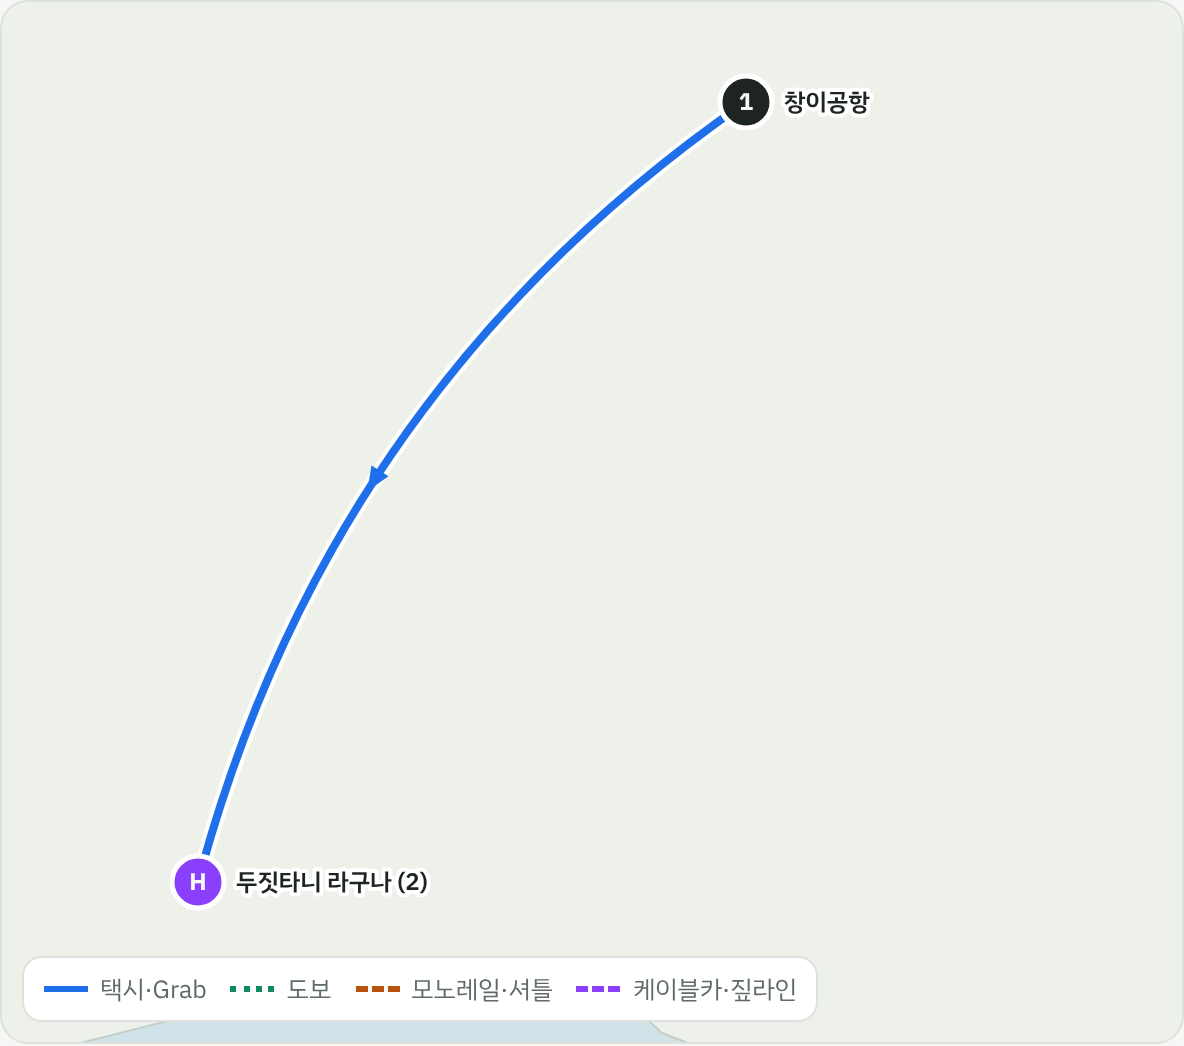
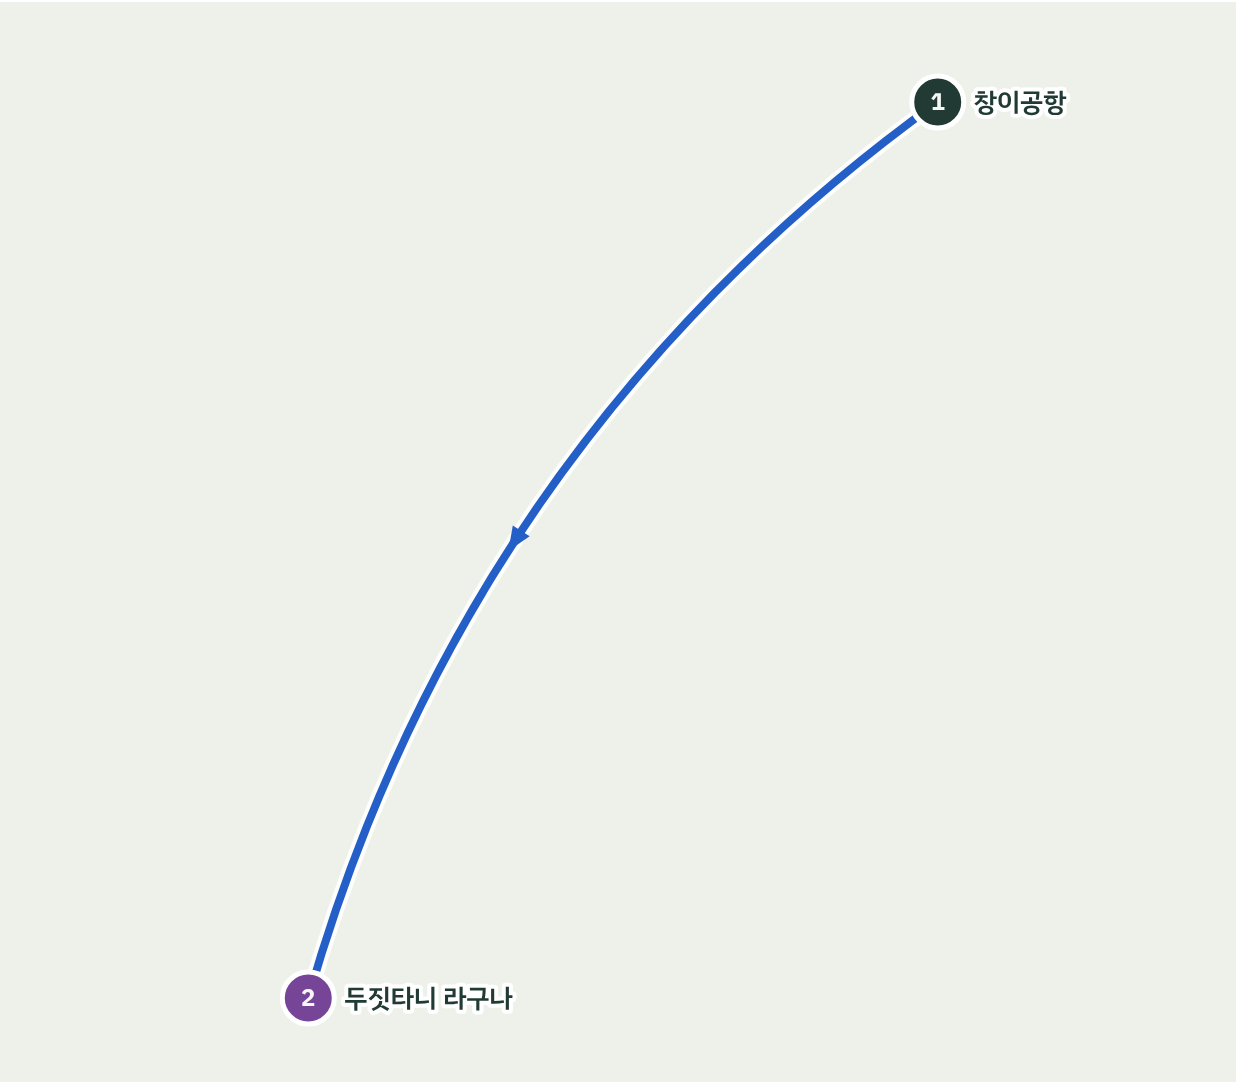
보내 주신 새 지도로 교체 (워터마크 배경 타일은 제거)
Claude-Session: https://claude.ai/code/session_01L2aYEXFB66TzMMbesmNc18

diff --git a/map.html b/map.html
@@ -98,32 +98,45 @@ footer{color:var(--muted);font-size:.82rem;max-width:72ch}
 .pin .lbl{fill:var(--fg);font:600 12px var(--sans);text-anchor:start;paint-order:stroke;stroke:var(--panel);stroke-width:4px;stroke-linejoin:round}
 .pin{cursor:pointer}
 @media (prefers-reduced-motion:reduce){*{transition:none!important}}
+ 
+.mapcard{min-width:0;border:1px solid var(--line);background:white;border-radius:16px;overflow:hidden}
+.mapbox{border:0;border-radius:0;height:min(67vh,620px)}
+#scopes{display:flex;gap:4px;padding:8px;overflow:auto}
+#scopes button{font:600 14px var(--sans);white-space:nowrap;border:0;border-radius:8px;padding:8px 10px;background:transparent;color:#53625e;cursor:pointer}
+#scopes button[aria-pressed=true]{background:#dcefe9;color:#125845}
+.legend{position:static;border:0;gap:6px 16px;padding:9px 12px}
+.pin .lbl{font-size:13px;stroke-width:4px}
+.tab{border-radius:9px}.tab[aria-selected=true]{background:#184c40;border-color:#184c40}
+:root{--fg:#213b34;--hotel:#764598;--walk:#007d5d;--taxi:#245fc7}
+@media(max-width:860px){body{padding:14px 10px 32px}.wrap{gap:10px}.mapbox{height:54svh;min-height:340px}.tabs{flex-wrap:nowrap;overflow:auto;gap:5px}.tab{flex:1;justify-content:center;padding:8px 5px;white-space:nowrap}.tab small{display:none}.main{gap:10px}}
+#summary{padding:0 12px 8px;color:#405650;font-size:14px}
+@media(max-width:540px){.tab{min-height:44px;flex-direction:column;align-items:center;gap:0}.tab small{display:block;font-size:11px}.mapbox{height:48svh;min-height:290px;max-height:480px}#scopes{gap:0;padding:6px 3px;flex-wrap:wrap}#scopes button{font-size:13px;min-height:40px}.ctrl button{width:40px;height:40px}}
 </style>
-
+</head><body>
 <div class="wrap">
   <header>
-    <h1>싱가포르 가족여행 동선지도</h1>
-    <p class="sub">12월 2일~5일 · 4명 · 날짜를 누르면 그날 이동경로가 지도에 그려져요. 장소나 구간을 누르면 확대되고, 구글맵 길찾기 링크로 실제 경로를 볼 수 있어요.</p>
+    <h1>싱가포르 여행지도</h1>
+    <p class="sub">12월 2일–5일 · 가족 여행</p>
   </header>
   <nav class="tabs" role="tablist" id="tabs"></nav>
   <div class="main">
-    <div class="mapbox" id="mapbox">
+    <section class="mapcard"><div id="scopes" aria-label="표시할 일정"></div><div id="summary" aria-live="polite"></div><div class="mapbox" id="mapbox">
       <svg id="map" aria-label="이동경로 지도" role="img"></svg>
       <div class="ctrl">
         <button id="zin" aria-label="확대">+</button>
         <button id="zout" aria-label="축소">−</button>
-        <button id="zfit" class="fit" aria-label="공항·첫날 숙소까지 전체 보기">전체</button>
+        <button id="zfit" class="fit" aria-label="하루 전체 보기">전체</button>
       </div>
-      <div class="legend">
+    </div><div class="legend">
         <span><i style="border-color:var(--taxi)"></i>택시·Grab</span>
         <span><i style="border-color:var(--walk);border-top-style:dotted"></i>도보</span>
         <span><i style="border-color:var(--rail);border-top-style:dashed"></i>모노레일·셔틀</span>
         <span><i style="border-color:var(--hotel);border-top-style:dashed"></i>케이블카·짚라인</span>
       </div>
-    </div>
+    </section>
     <aside class="side" id="rail"></aside>
   </div>
-  <footer>지도는 해안선만 그린 약식 지도이고, 선은 실제 도로가 아니라 이동 순서를 보여주는 곡선이에요. 시간과 요금은 평소 교통 기준 추정치라 실제와 다를 수 있어요. 일정은 11월 19일 최종 확정안 기준이에요. 해안선 데이터 © OpenStreetMap 기여자.</footer>
+  <footer> 선은 실제 도로가 아니라 이동 순서를 보여주는 곡선이에요. 시간과 요금은 평소 교통 기준 추정치라 실제와 다를 수 있어요. 일정은 11월 19일 최종 확정안 기준이에요.</footer>
 </div>
 
 <script>
@@ -253,12 +266,37 @@ const AREAS = [["오차드",1.3065,103.8330],["캄퐁글람",1.3040,103.8610],["
 let view = {s:1, tx:0, ty:0}; // screen = world*s + t
 let day = DAYS[1], sel = null;
 
+let scope=0;
+function ranges(){
+  if(day.id==='d1') return [['공항 → 숙소',0,1]];
+  if(day.id==='d3') return [['하루 전체',0,11],['센토사 입도',0,2],['센토사 해변',2,7],['사파리·야경',7,11]];
+  if(day.id==='d4') return [['하루 전체',0,7],['시내 관광',0,5],['공항 이동',5,6],['쥬얼·출국',6,7]];
+  return day.id==='d2' ? [['하루 전체',0,11],['오전 이동',0,3],['베이 산책',3,7],['저녁·야경',7,11]] : [['주요 동선',0,day.stops.length-1],['하루 전체',0,day.stops.length-1]];
+}
+function selectScope(i){
+  scope=i; sel=null; markRail();
+  const options=ranges();
+  const [,first,last]=options[i];
+  document.querySelector('#summary').textContent=day.stops[first].t+' '+P[day.stops[first].p][2].split(' (')[0]+' → '+day.stops[last].t+' '+P[day.stops[last].p][2].split(' (')[0];
+  const activeModes=new Set(day.stops.slice(first+1,last+1).map(stop=>stop.leg.m));
+  document.querySelectorAll('.legend span').forEach((item,k)=>{
+    item.style.display=[['taxi'],['walk'],['rail','shuttle'],['zip','cable']][k].some(m=>activeModes.has(m))?'flex':'none';
+  });
+  document.querySelectorAll('#scopes button').forEach((b,j)=>b.setAttribute('aria-pressed',i===j));
+  {
+    const [,a,b]=options[i]; fit(day.stops.slice(a,b+1).map(s=>W(s.p)),220);
+  }
+}
+function buildScopes(){
+  const bar=document.getElementById('scopes'); bar.replaceChildren();
+  ranges().forEach(([label],i)=>{const b=document.createElement('button'); b.textContent=label; b.onclick=()=>selectScope(i);bar.append(b)});
+}
 function size(){ const r=svg.getBoundingClientRect(); return [r.width||600, r.height||400]; }
 function fit(pts, maxS){
   const [w,h]=size();
   let x0=Infinity,y0=Infinity,x1=-Infinity,y1=-Infinity;
   pts.forEach(([x,y])=>{x0=Math.min(x0,x);y0=Math.min(y0,y);x1=Math.max(x1,x);y1=Math.max(y1,y);});
-  const pl=Math.min(70,w*.12), pr=Math.min(190,w*.38), pt=50, pb=80, bw=Math.max(x1-x0,4), bh=Math.max(y1-y0,4);
+  const pl=Math.min(70,w*.12), pr=Math.min(65,w*.13), pt=50, pb=42, bw=Math.max(x1-x0,4), bh=Math.max(y1-y0,4);
   let s=Math.min((w-pl-pr)/bw,(h-pt-pb)/bh); s=Math.min(s,maxS||400); s=Math.max(s,.4);
   view={s, tx:pl+(w-pl-pr)/2-(x0+x1)/2*s, ty:pt+(h-pt-pb)/2-(y0+y1)/2*s};
   render();
@@ -282,7 +320,8 @@ function render(){
   AREAS.forEach(([n,la,lo])=>{ const [x,y]=S([wx(lo),wy(la)]); el('text',{x,y,class:'area'},gOver).textContent=n; });
   // legs
   const legs=[]; day.stops.forEach((s,i)=>{ if(i>0) legs.push({a:day.stops[i-1].p,b:s.p,m:s.leg.m,i}); });
-  legs.forEach(l=>{
+  const [,start,end]=ranges()[scope];
+  legs.filter(l=>l.i>start && l.i<=end).forEach(l=>{
     const a=S(W(l.a)), b=S(W(l.b)); if(Math.hypot(b[0]-a[0],b[1]-a[1])<3) return;
     const c=curve(a,b,l.i), dim = sel && sel.type==='leg' && sel.i!==l.i;
     el('path',{d:c.d,class:'route-halo'+(dim?' dim':'')},gOver);
@@ -292,7 +331,7 @@ function render(){
       const ar=el('path',{d:'M-6,-5L6,0L-6,5Z',class:`arrow ${l.m}`,transform:`translate(${p[0]},${p[1]}) rotate(${ang})`},gOver); if(dim) ar.setAttribute('opacity',.3); }
   });
   // pins grouped by place, then clustered when they overlap on screen
-  const groups={}; day.stops.forEach((s,i)=>{ (groups[s.p]=groups[s.p]||[]).push(i); });
+  const groups={}; day.stops.forEach((s,i)=>{ if(i>=start && i<=end) (groups[s.p]=groups[s.p]||[]).push(i); });
   const cl=[];
   Object.entries(groups).forEach(([p,idx])=>{ const xy=S(W(p));
     const c=cl.find(c=>Math.hypot(c.x-xy[0],c.y-xy[1])<30);
@@ -302,8 +341,8 @@ function render(){
   cl.forEach(c=>{
     const single=c.m.length===1, m0=c.m[0], hotel=single&&!!P[m0.p][4];
     const nums=c.m.flatMap(m=>m.idx).sort((a,b)=>a-b).map(i=>i+1);
-    const txt = single ? (hotel?'H':nums.join('·')) : nums.join('·');
-    const name = single ? P[m0.p][2] + (hotel?` (${nums.join('·')})`:'') : `${P[m0.p][2]} 외 ${c.m.length-1}곳 · 눌러서 확대`;
+    const txt = nums.join('·');
+    const name = P[m0.p][2].split(/ [·(]/)[0] + (single?'':` 외 ${c.m.length-1}곳`);
     const isSel = sel && sel.type==='stop' && c.m.some(m=>m.idx.includes(sel.i));
     const g=el('g',{class:'pin',transform:`translate(${c.x},${c.y})`,tabindex:0,role:'button','aria-label':name},gOver);
     const w = Math.max(26, txt.length*7.2+12), h=26, grow=isSel?4:0;
@@ -311,8 +350,15 @@ function render(){
     else el('rect',{x:-w/2-grow/2,y:-h/2-grow/2,width:w+grow,height:h+grow,rx:13,fill:c.m.some(m=>P[m.p][4])&&single?'var(--hotel)':'var(--fg)',stroke:'var(--panel)','stroke-width':2.5},g);
     el('text',{},g).textContent=txt;
     boxes.push([c.x-w/2,c.y-h/2,c.x+w/2,c.y+h/2]);
-    const lw=name.length*12.5, lx0=c.x+w/2+6;
-    if(!hit(lx0,c.y-9,lx0+lw,c.y+9)){ el('text',{x:w/2+6,y:0,class:'lbl','dominant-baseline':'central'},g).textContent=name; boxes.push([lx0,c.y-9,lx0+lw,c.y+9]); }
+    const label=el('text',{class:'lbl'},g);label.textContent=name;
+    const lw=label.getComputedTextLength(), [sw,sh]=size();
+    const offsets=[[w/2+5,0],[-w/2-5-lw,0],[-lw/2,-24],[-lw/2,24]];
+    const pos=offsets.find(([dx,dy])=>{
+      const x=c.x+dx,y=c.y+dy;
+      return x>=2 && x+lw<sw-2 && y>10 && y<sh-10 && !hit(x,y-9,x+lw,y+9) &&
+        !cl.some(pin=>pin!==c && pin.x+16>x && pin.x-16<x+lw && Math.abs(pin.y-y)<22);
+    });
+    if(pos){label.setAttribute('x',pos[0]);label.setAttribute('y',pos[1]);boxes.push([c.x+pos[0],c.y+pos[1]-9,c.x+pos[0]+lw,c.y+pos[1]+9]);}else label.remove();
     const act=()=>{ if(single) pickStop(m0.idx[0]); else { sel=null; markRail(); fit(c.m.map(m=>W(m.p)), 900); } };
     g.addEventListener('click',e=>{e.stopPropagation(); act();});
     g.addEventListener('keydown',e=>{ if(e.key==='Enter'||e.key===' '){e.preventDefault(); act();} });
@@ -322,13 +368,18 @@ function render(){
   gOver.querySelectorAll('.pin text:not(.lbl)').forEach(t=>t.style.fill=fg.trim()||'#fff');
 }
 
+function ensureVisible(a,b){
+  const [,lo,hi]=ranges()[scope]; if(a<lo || b>hi) selectScope(0);
+}
+function revealMap(){if(innerWidth<=860) document.querySelector('.mapcard').scrollIntoView({block:'start'});}
 function pickStop(i){
-  sel={type:'stop',i}; const p=day.stops[i].p;
+  revealMap();
+  ensureVisible(i,i); sel={type:'stop',i}; const p=day.stops[i].p;
   const [w,h]=size(), [x,y]=W(p), s=Math.max(view.s, 60);
   view={s, tx:w/2-x*s, ty:h/2-y*s}; render(); markRail();
 }
 function pickLeg(i){
-  sel={type:'leg',i}; fit([W(day.stops[i-1].p),W(day.stops[i].p)], 220); markRail();
+  ensureVisible(i-1,i); revealMap(); sel={type:'leg',i}; fit([W(day.stops[i-1].p),W(day.stops[i].p)], 220); markRail();
 }
 
 function markRail(){
@@ -371,20 +422,20 @@ function buildRail(){
 function setDay(id){
   day=DAYS.find(d=>d.id===id)||DAYS[1]; sel=null;
   document.querySelectorAll('.tab').forEach(t=>t.setAttribute('aria-selected',t.dataset.id===day.id));
-  buildRail(); fitDay();
+  buildRail(); buildScopes(); selectScope(({d1:0,d2:2,d3:2,d4:1})[day.id]);
   try{ history.replaceState(null,'','#'+day.id); }catch(e){}
 }
 
 const tabs=document.getElementById('tabs');
 DAYS.forEach(d=>{ const b=document.createElement('button'); b.className='tab'; b.role='tab'; b.dataset.id=d.id;
-  b.innerHTML='<span></span><small></small>'; b.querySelector('span').textContent=d.tab; b.querySelector('small').textContent=d.sub;
+  b.innerHTML='<span></span><small></small>'; b.querySelector('span').textContent=d.tab; b.querySelector('small').textContent=({d1:'도착',d2:'마리나베이',d3:'센토사',d4:'시내·귀국'})[d.id];
   b.addEventListener('click',()=>setDay(d.id)); tabs.appendChild(b); });
 
 // pan & zoom
 function zoomAt(f,cx,cy){ const s=Math.min(Math.max(view.s*f,.4),900); f=s/view.s; view.tx=cx-(cx-view.tx)*f; view.ty=cy-(cy-view.ty)*f; view.s=s; render(); }
 svg.addEventListener('wheel',e=>{ e.preventDefault(); const r=svg.getBoundingClientRect(); zoomAt(Math.exp(-e.deltaY*0.0015),e.clientX-r.left,e.clientY-r.top); },{passive:false});
 const ptrs=new Map(); let last=null, pinch=null;
-svg.addEventListener('pointerdown',e=>{ ptrs.set(e.pointerId,[e.clientX,e.clientY]); svg.setPointerCapture(e.pointerId); svg.classList.add('drag'); last=[e.clientX,e.clientY];
+svg.addEventListener('pointerdown',e=>{ ptrs.set(e.pointerId,[e.clientX,e.clientY]); if(e.target===svg) svg.setPointerCapture(e.pointerId); svg.classList.add('drag'); last=[e.clientX,e.clientY];
   if(ptrs.size===2){ const [a,b]=[...ptrs.values()]; pinch=Math.hypot(a[0]-b[0],a[1]-b[1]); } });
 svg.addEventListener('pointermove',e=>{ if(!ptrs.has(e.pointerId)) return; ptrs.set(e.pointerId,[e.clientX,e.clientY]);
   if(ptrs.size===2 && pinch){ const [a,b]=[...ptrs.values()], d=Math.hypot(a[0]-b[0],a[1]-b[1]), r=svg.getBoundingClientRect();
@@ -394,8 +445,8 @@ const up=e=>{ ptrs.delete(e.pointerId); if(ptrs.size<2) pinch=null; if(!ptrs.siz
 svg.addEventListener('pointerup',up); svg.addEventListener('pointercancel',up);
 document.getElementById('zin').onclick=()=>{const [w,h]=size(); zoomAt(1.6,w/2,h/2);};
 document.getElementById('zout').onclick=()=>{const [w,h]=size(); zoomAt(1/1.6,w/2,h/2);};
-document.getElementById('zfit').onclick=()=>{ sel=null; markRail(); fitDay(true); };
-let rt; window.addEventListener('resize',()=>{clearTimeout(rt); rt=setTimeout(()=>{ sel=null; markRail(); fitDay(); },150);});
+document.getElementById('zfit').onclick=()=>{ selectScope(0); };
+let rt; window.addEventListener('resize',()=>{clearTimeout(rt); rt=setTimeout(()=>{ selectScope(scope); },150);});
 window.addEventListener('hashchange',()=>{ const id=location.hash.slice(1); if(id!==day.id && DAYS.some(d=>d.id===id)) setDay(id); });
 matchMedia('(prefers-color-scheme: dark)').addEventListener?.('change',render);
 
